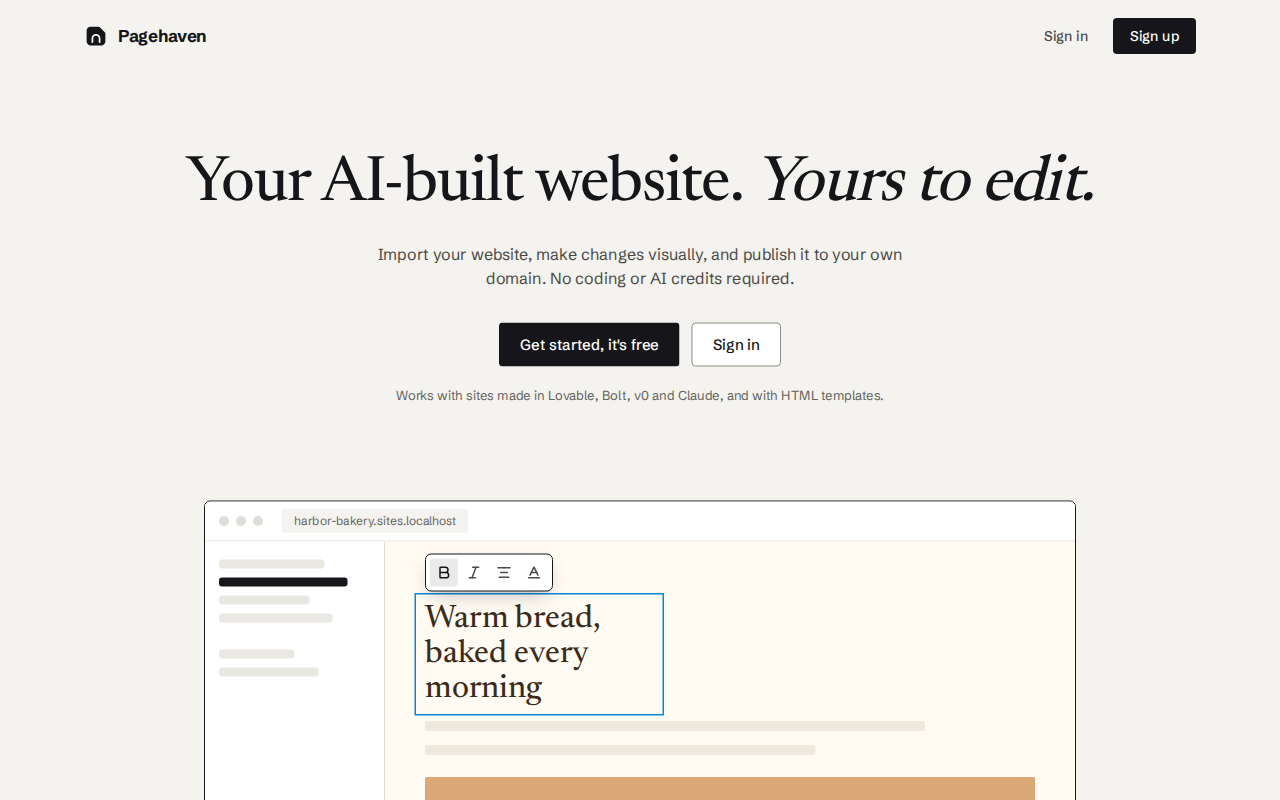
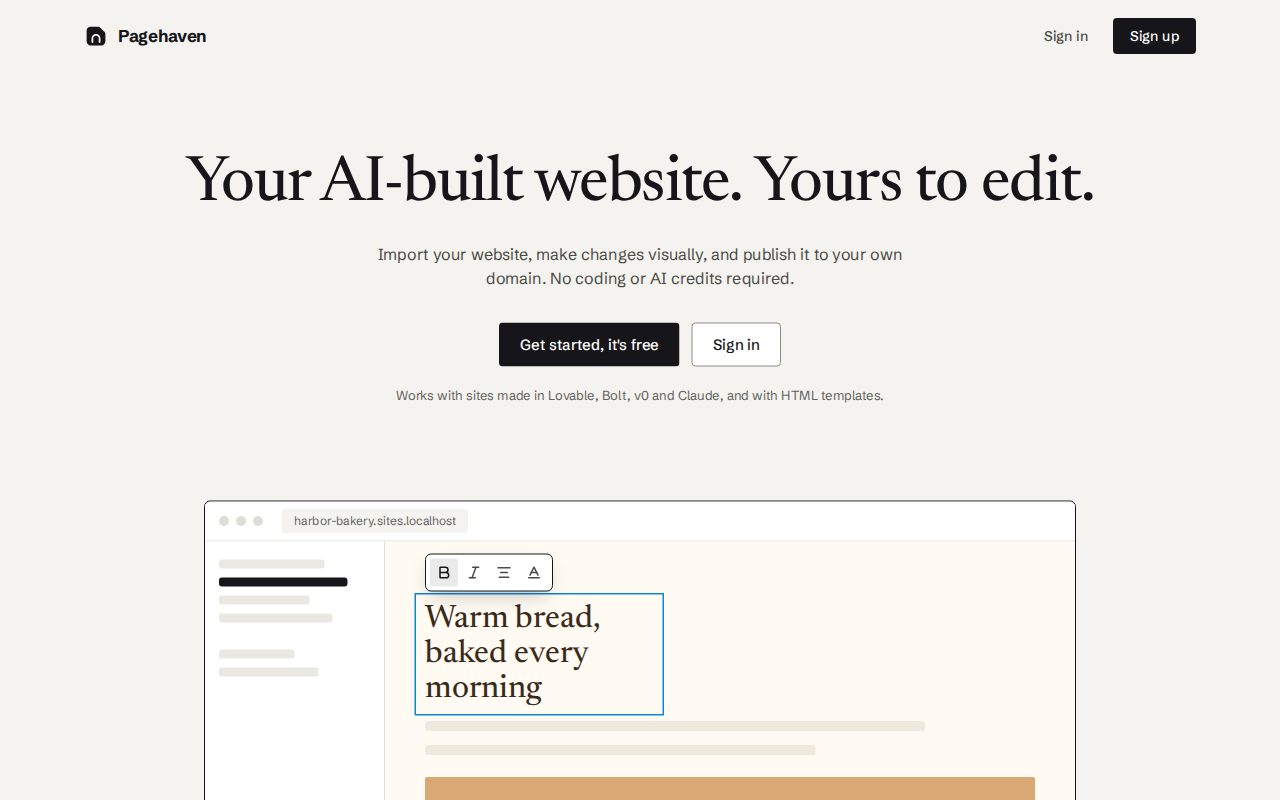
Stop faking Newsreader italics and drop the unused overline style

diff --git a/assets/views/errors/site_not_found.html b/assets/views/errors/site_not_found.html
@@ -6,13 +6,13 @@
 <meta name="robots" content="noindex">
 <title>Website not found</title>
 <style>
-html{background:#F4F3EF;color:#16161A;font-family:-apple-system,BlinkMacSystemFont,"SF Pro Text","Inter","Segoe UI",system-ui,sans-serif;-webkit-font-smoothing:antialiased}
+html{background:#F4F3EF;color:#16161A;font-family:system-ui,sans-serif;-webkit-font-smoothing:antialiased}
 body{margin:0;min-height:100vh;display:flex;align-items:center;justify-content:center;padding:24px;box-sizing:border-box}
 main{max-width:420px;text-align:center}
-.mark{width:56px;height:56px;margin:0 auto 24px;border-radius:6px;background:#fff;border:1px solid #DEDDD7;display:flex;align-items:center;justify-content:center;font-size:26px;color:#64635E}
-h1{font-size:24px;letter-spacing:-.02em;margin:0 0 10px}
+.mark{width:56px;height:56px;margin:0 auto 24px;border-radius:6px;background:#fff;border:1px solid #DEDDD7;display:flex;align-items:center;justify-content:center;font-size:1.5rem;color:#64635E}
+h1{font-size:1.5rem;letter-spacing:-.01em;margin:0 0 10px}
 p{margin:0 0 8px;color:#4B4A46;line-height:1.55}
-.small{font-size:13px;color:#64635E;margin-top:20px}
+.small{font-size:.8125rem;color:#64635E;margin-top:20px}
 </style>
 </head>
 <body>

diff --git a/assets/static/css/app.css b/assets/static/css/app.css
@@ -197,6 +197,7 @@ body {
   -webkit-font-smoothing: antialiased;
   -moz-osx-font-smoothing: grayscale;
   font-kerning: normal;
+  font-synthesis: none; /* one upright Newsreader weight ships; never fake its bold or italic */
 }
 
 img, svg { display: block; max-width: 100%; }
@@ -241,7 +242,6 @@ code, kbd, samp { font-family: var(--font-mono); font-size: var(--fs-mono); }
 .t-label { font-size: var(--fs-label); line-height: var(--lh-label); font-weight: var(--fw-label); }
 .t-meta { font-size: var(--fs-meta); line-height: var(--lh-meta); color: var(--ink-3); }
 .t-micro { font-size: var(--fs-micro); line-height: var(--lh-micro); font-weight: var(--fw-micro); letter-spacing: var(--ls-micro); }
-.t-overline { font-size: var(--fs-micro); line-height: var(--lh-micro); font-weight: var(--fw-micro); letter-spacing: 0.04em; text-transform: uppercase; color: var(--ink-2); }
 
 /* Utilities */
 

diff --git a/docs/design/foundation.md b/docs/design/foundation.md
@@ -30,6 +30,7 @@ The split costs the editor nothing. The browser downloads a face only when visib
 ## How the fonts load
 
 - Both files live in `assets/static/fonts/` with their SIL OFL 1.1 licence texts (`OFL-SchibstedGrotesk.txt`, `OFL-Newsreader.txt`). They come from the app's own origin, so the CSP stays `font-src 'self'`.
+- `body` sets `font-synthesis: none`. Only upright faces ship, so an `<em>` or a heavier weight renders upright at the shipped weight instead of a browser-faked slant or bold. To emphasise text, use weight within Schibsted's 400 to 700 range, or ask the owner to approve an italic file.
 - `layouts/base.html` preloads only the Schibsted file. Newsreader is small and off the editor path, so it loads on demand.
 - Both use `font-display: swap`. The fallback faces (`Schibsted Grotesk Fallback` on Arial or Liberation Sans, `Newsreader Fallback` on Times New Roman or Liberation Serif) carry `size-adjust` and ascent and descent overrides, so text keeps its width and line height when the web font arrives.
 - `scripts/design/build_fonts.sh` rebuilds both files from the upstream variable fonts and prints the fallback overrides through `scripts/design/fallback_metrics.py`. fontTools runs from a throwaway virtualenv. It is a build tool, not an app dependency.
